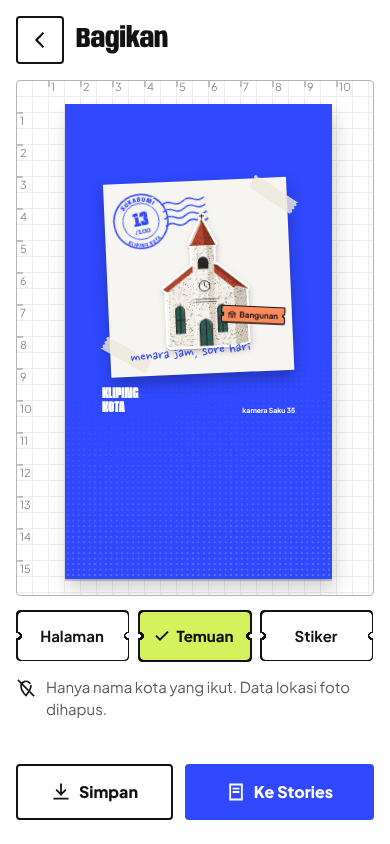
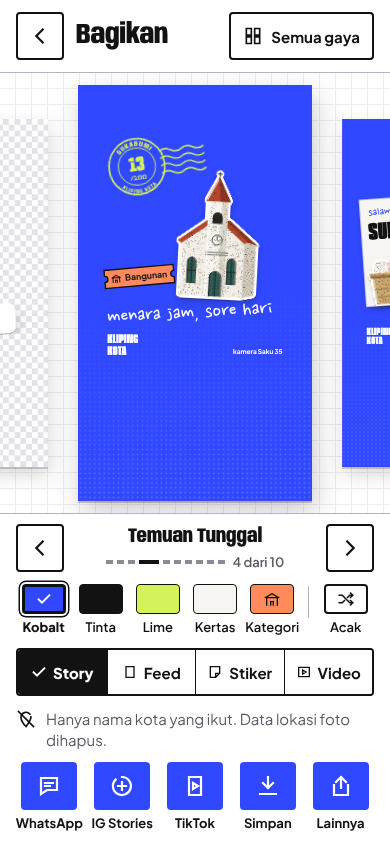
Desain v5: Bagikan dengan 10 gaya kartu share, Q-023 dan Q-024
Layar Bagikan baru (geser gaya, chip warna + Acak, format, tujuan),
kisi pilih gaya, dan 10 kartu share (Halaman Kliping, Video, Stiker,
Temuan Tunggal, Kartu Pos, Sukabumi-ku dalam 4, Label Pemburu,
Tonggak Stempel, Cuci Cetak, Tambah Punyamu). Screenshot di
docs/desain/usulan-v5/, ringkasan di usulan v5.

Claude-Session: https://claude.ai/code/session_01RwujPoypsKpkKnPt9b6a3g

diff --git a/docs/pertanyaan.md b/docs/pertanyaan.md
@@ -14,6 +14,8 @@
 | Q-019 | Warna untuk 4 kategori yang belum punya warna (Minuman, Hewan, Barang, Lainnya)? Usulan v5: `#5ED1E0`, `#C7A6FF`, `#E0C39A`, `#D6D6DC` (tinta di atasnya 9,2–13,0:1). Karena warna kategori < 3:1 terhadap putih, label kategori wajib bergaris tinta dan selalu ikon + teks | `data/categories.json` punya 9 kategori (K-020), sistem v4 baru mewarnai 5 | K-020, Q-017 |
 | Q-020 | Batas atur manual stiker di editor halaman dan kolom baru `Placement`? Usulan mockup v5: putar 2° per ketukan dengan batas ±15° (±4° tetap untuk tata letak otomatis), ukuran 60–150% dari slot template, geser 4 dp per ketukan dengan minimal 50% stiker di dalam halaman, urungkan minimal 20 langkah sampai Simpan; kolom baru `tapeStyle` (`none`/`oneCorner`/`twoCorners`/`top`) dan `noteInk` (`cobalt`/`ink`); "Lepas dari halaman" menghapus `Placement`, `Finding` tetap (ke mana temuan itu tampil belum diputuskan) | Editor halaman (K-005) butuh batas agar halaman tetap rapi; kolom baru menyentuh glosarium (K-014) dan skema drift/Supabase | K-005, K-014 |
 | Q-021 | Isi `Book.cover` untuk MVP? Usulan mockup v5: `templateId` (4 template: Kobalt, Tinta, Kliping, Karcis), judul maksimal 24 karakter dengan aturan perkecil/turun baris per template, dan maksimal 3 stiker berurutan (urutan pilih = posisi). Editor sampul lanjutan (geser bebas) tetap ditunda (spesifikasi §8) | Spesifikasi §4.5 hanya menyebut "template + nama + stiker"; `templateId` belum ada di glosarium | Spesifikasi §4.5, §8, K-014 |
+| Q-023 | Gaya kartu share mana yang masuk MVP, dan format apa saja? Mockup v5 menggambar 10 gaya (Halaman Kliping, Video Buka Halaman, Stiker Temuan, Temuan Tunggal, Kartu Pos Kota, Sukabumi-ku dalam 4, Label Pemburu, Tonggak Stempel, Cuci Cetak Mingguan, Tambah Punyamu), 5 warna + Acak, dan 4 format (Story 9:16, Feed 3:4, Stiker transparan, Video). Usulan riset: Wajib gaya 1–4 + format 9:16 dan Stiker; Bagus gaya 5–8 + Feed 3:4; Nanti gaya 9–10 + carousel. Termasuk: tujuan WhatsApp di urutan pertama, cap tonggak 25/50/100 dengan aksen emas `#E0A526`, dan tinta cap di atas warna kategori | Kartu share adalah jalur utama calon pengguna melihat aplikasi; spesifikasi §4.8 hanya menyebut gambar dan video 9:16, jadi Feed 3:4, Stiker, dan carousel adalah perluasan. Riset: `docs/riset/2026-11-18-kartu-share-viral.md`; desain: `docs/desain/usulan-v5-karcis-kliping.md` (tambahan 18 Nov) | Spesifikasi §4.8, K-028, Q-017, Q-018 |
+| Q-024 | Apakah gaya "Label Pemburu" (persona dari kategori dominan, mis. "Pemburu Papan Nama", dihitung di perangkat) termasuk pemrofilan menurut PP Tunas/UU PDP, dan apakah "Tambah Punyamu" (ajakan meniru misi) aman tanpa tautan web penerima? Perlu tinjauan `penasihat-privasi` sebelum masuk MVP | K-017 memberi perlindungan privasi tingkat anak untuk semua pengguna, termasuk larangan pemrofilan; label identitas adalah pemicu berbagi yang kuat di riset | K-017, Q-023 |
 
 ## Terjawab
 

diff --git a/docs/desain/usulan-v5-karcis-kliping.md b/docs/desain/usulan-v5-karcis-kliping.md
@@ -452,6 +452,15 @@ Lebar acuan 360 dp. Margin sisi 16 dp, jarak antarblok 16 dp, spasi kelipatan 4.
 - Judul kartu adalah keterangan buatan pengguna. Bila kosong, pakai nama kategori.
 - Varian "stiker transparan" (riset Strava) memakai stiker, cap, dan watermark yang sama di atas latar transparan.
 
+**Tambahan 18 Nov: Bagikan dengan 10 gaya kartu.** Pemilik meminta kartu share yang beragam, karena kartu inilah yang dilihat calon pengguna. Dasar: `docs/riset/2026-11-18-kartu-share-viral.md`. Layar Bagikan di atas diganti oleh rancangan berikut (belum diputuskan, lihat Q-023 dan Q-024).
+
+- **Layar Bagikan** (`V5Bagikan`): pratinjau kartu yang digeser horizontal untuk berganti gaya, dengan nama gaya dan "4 dari 10"; chip warna Kobalt, Tinta, Lime, Kertas, warna Kategori, dan tombol Acak; segmen format Story 9:16, Feed 3:4, Stiker, Video (format yang tidak cocok dinonaktifkan beserta alasannya); tujuan WhatsApp, IG Stories, TikTok, Simpan, Lainnya; kalimat privasi di dekat tombol.
+- **Pilih gaya** (`V5BagikanGaya`): kisi 10 gaya. Gaya yang belum terbuka (Tonggak) tampil redup dengan alasan "Muncul di 25 temuan", tanpa ajakan berbagi demi hadiah.
+- **10 gaya**: 1 Halaman Kliping (`V5KartuShare`), 2 Video Buka Halaman (`V5ShareVideo`), 3 Stiker Temuan (`V5BagikanStiker`), 4 Temuan Tunggal (`V5ShareTunggal`), 5 Kartu Pos Kota (`V5SharePos`), 6 Sukabumi-ku dalam 4 (`V5ShareEmpat`, feed: `V5ShareEmpatFeed`), 7 Label Pemburu (`V5ShareLabel`), 8 Tonggak Stempel (`V5ShareTonggak`), 9 Cuci Cetak Mingguan (`V5ShareCetak`), 10 Tambah Punyamu (`V5ShareTambah`).
+- **Aturan bersama semua gaya**: stempel kota dan watermark "Kliping Kota · <kamera>" selalu ada (§4.8); lokasi hanya nama kota (K-011); tanpa progres landmark (K-028); tanpa nama landmark sampai Q-018 diputuskan; zona aman atas 270 dan bawah 680 bebas informasi.
+- **Unsur baru yang perlu diputuskan**: tinta cap di atas warna kategori, wujud cap tonggak 25/50/100 dengan aksen emas `#E0A526` (hanya di gaya 8), dan format Feed 3:4 serta Stiker di luar spesifikasi §4.8.
+- Screenshot: `usulan-v5/V5Bagikan.png`, `usulan-v5/V5BagikanGaya.png`, `usulan-v5/V5BagikanStiker.png`, dan `usulan-v5/V5Share*.png` (versi tanpa garis zona aman).
+
 ### 3.7 Satu momen gerak: "Cap!"
 
 Terjadi saat menekan "Tempel ke buku", dari Temuan ke Sukses. Total ±1,1 detik.
